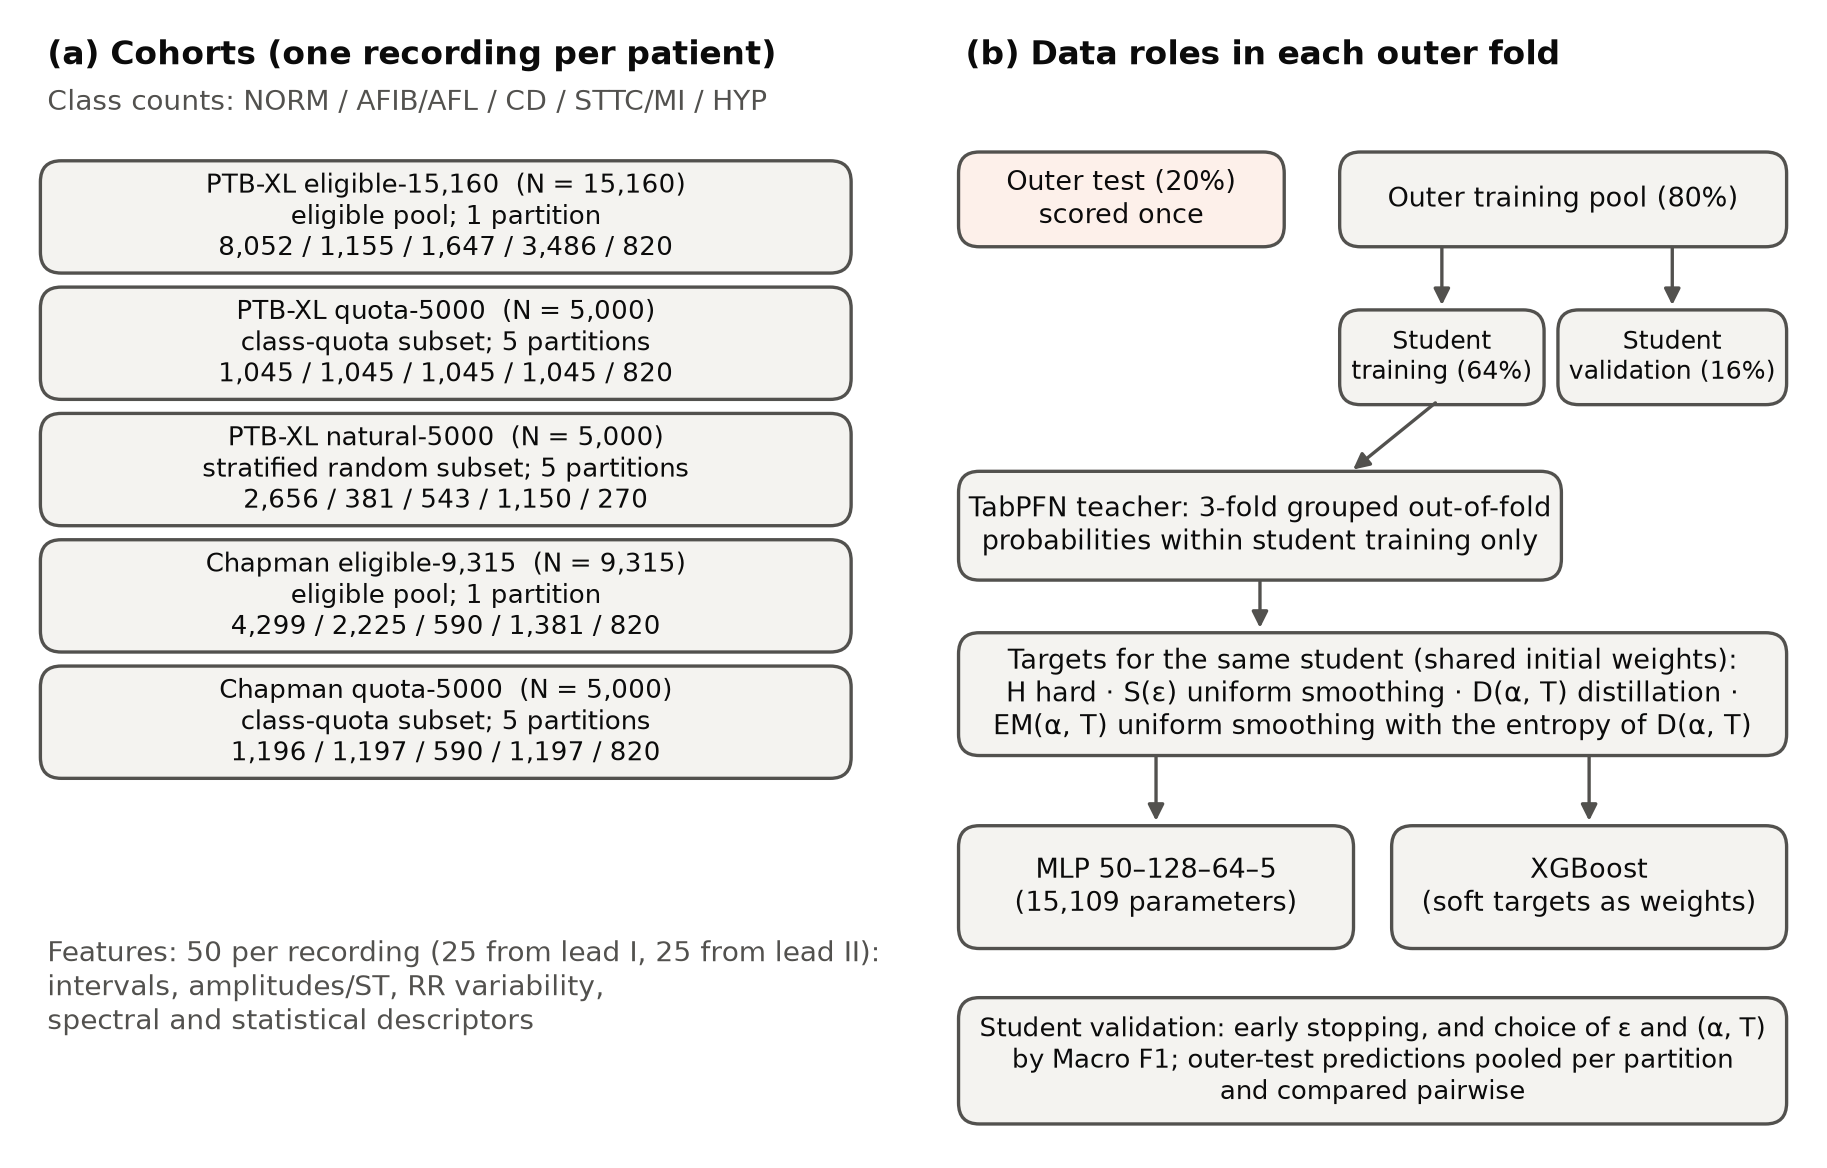
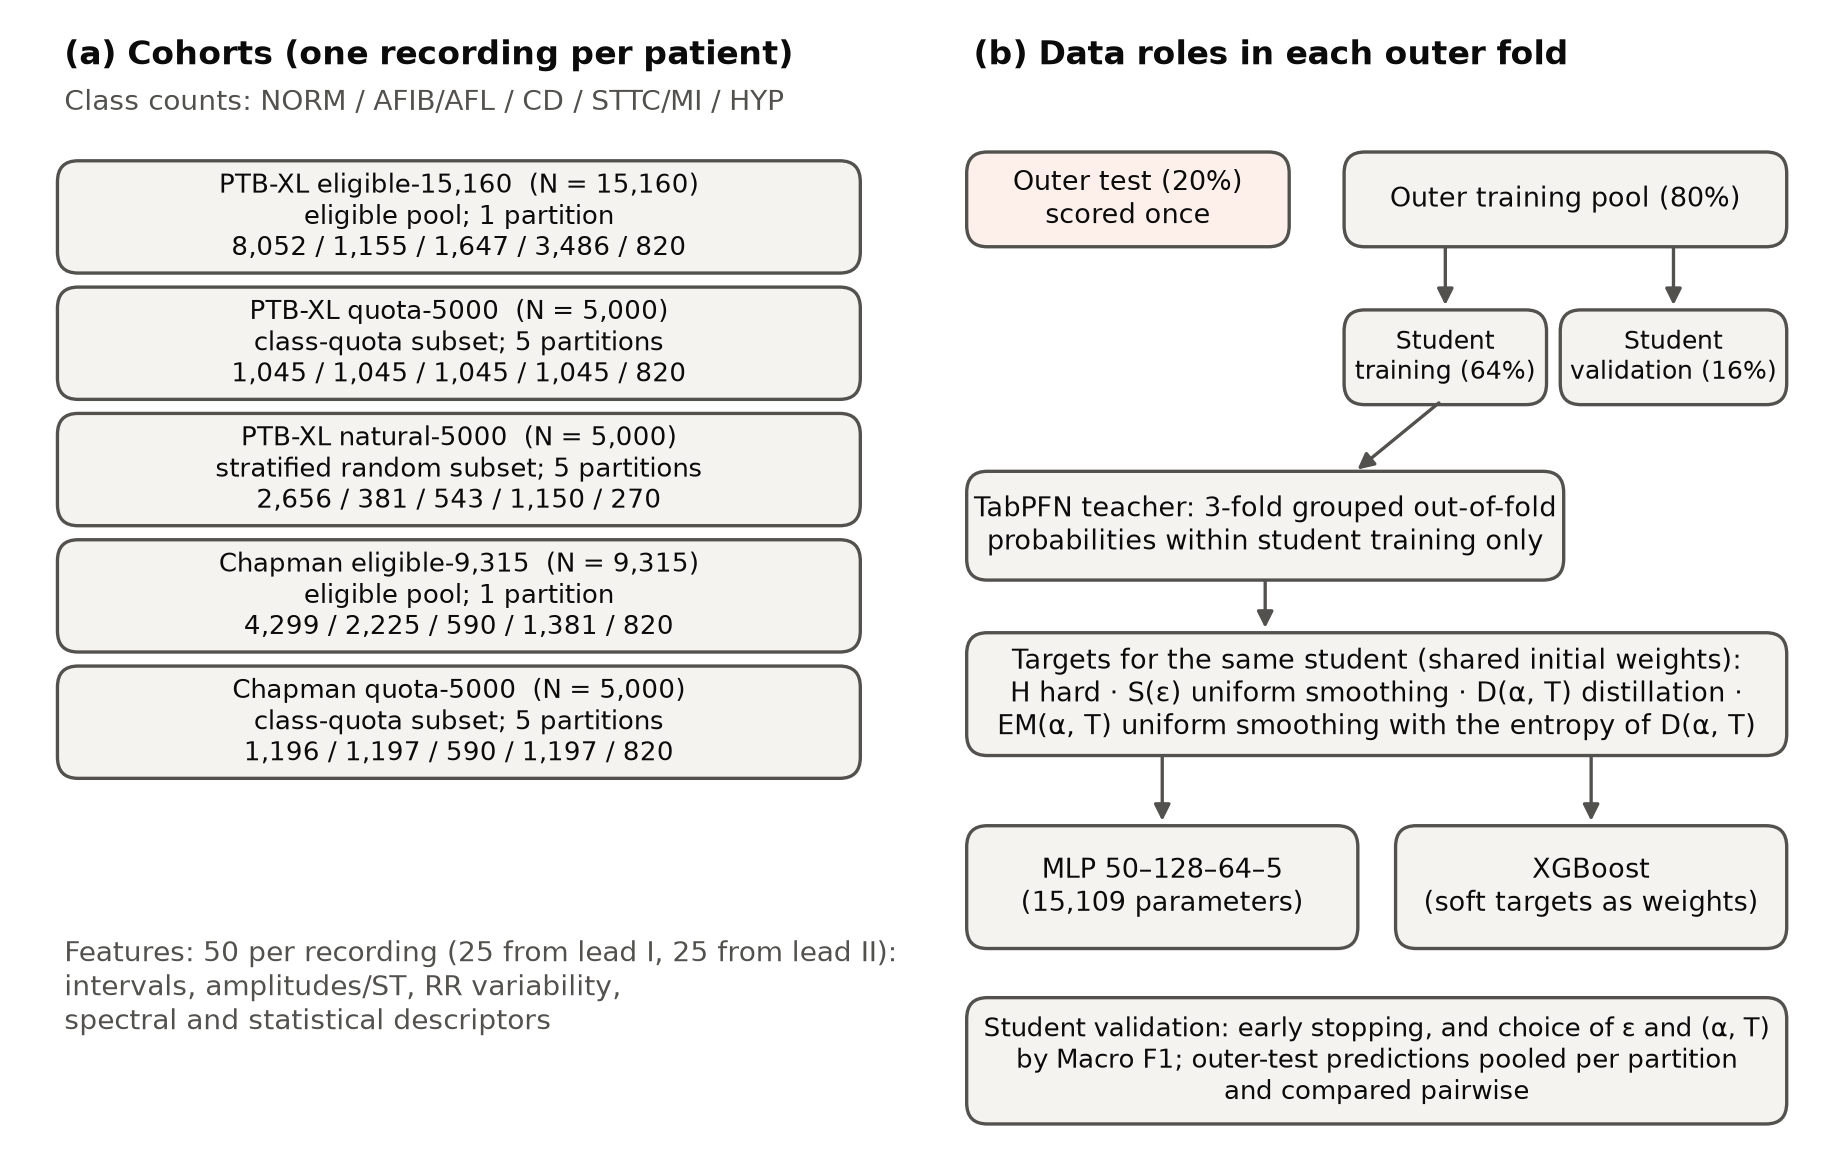
Align AI-assistance statement with the manuscript; widen Fig. 1 left margin

diff --git a/manuscript_v22/make_figures_v22.py b/manuscript_v22/make_figures_v22.py
@@ -49,7 +49,7 @@ def fig1():
     for c in COHORTS:
         r = pd.read_csv(OUT_ROOT / c / "cohort_records.csv")
         counts[c] = (len(r), np.bincount(r["y"], minlength=5))
-    fig, ax = plt.subplots(figsize=(7.6, 4.8)); ax.set_axis_off(); ax.set_xlim(-1, 101); ax.set_ylim(-1.2, 62)
+    fig, ax = plt.subplots(figsize=(7.6, 4.8)); ax.set_axis_off(); ax.set_xlim(-2, 101); ax.set_ylim(-1.2, 62)
 
     def box(x, y, w, h, text, fc="#f4f3f0", ec=INK2, fs=7.2, weight="normal"):
         ax.add_patch(FancyBboxPatch((x, y), w, h, boxstyle="round,pad=0.4,rounding_size=1.2", fc=fc, ec=ec, lw=0.8))

diff --git a/README.md b/README.md
@@ -159,12 +159,13 @@ Dokuz Eylül University, İzmir, Turkey — mehmet.kuntalp@deu.edu.tr — ORCID 
 
 ## AI assistance
 
-Generative-AI tools had different roles in the two sets of analyses. For the legacy (v21) analyses, **Antigravity**
-(Google) wrote the original feature extractor and analysis code, and **Claude Code** (Anthropic) reviewed it,
-recomputed the reported metrics and carried out the re-execution checks in `REPRODUCTION.md`. For the current (v22)
-analyses, **Claude Code** wrote and reviewed the revised feature extraction, experiment, analysis, table and figure
-code, verified reported calculations independently, checked references against bibliographic databases and assisted
-in drafting and editing the manuscript from the author's analysis plan and results. **Perplexity** was used to
-critique manuscript drafts; each critique was checked against the stored outputs before any change was accepted. The
-author defined the research questions and the analysis plan, made all methodological and interpretive decisions,
-executed all code locally and checked all outputs. See the manuscript's AI disclosure statement.
+For the legacy (v21) analyses, **Antigravity** (Google) wrote the original feature extractor and analysis code, and
+**Claude Code** (Anthropic) reviewed it, recomputed the reported metrics and carried out the re-execution checks in
+`REPRODUCTION.md`. For the current (v22) analyses, **Claude Code** (Claude Opus 5.5) wrote the revised feature
+extraction, experiment, analysis, table and figure code, verified reported calculations independently, checked
+references against bibliographic databases and assisted in drafting and editing the manuscript from the author's
+analysis plan and results. The code was reviewed with **Codex** (OpenAI; GPT-6 Luna) and **Antigravity** (Google;
+Gemini 3.8 Flash), and manuscript drafts with **Antigravity** (Google; Gemini 4 Argon) and **Perplexity** (GPT-6.1 Sol);
+each critique was checked against the stored outputs before any change was accepted. The author defined the research
+questions and the analysis plan, made all methodological and interpretive decisions, executed all code locally and
+checked all outputs. See the manuscript's AI disclosure statement.
